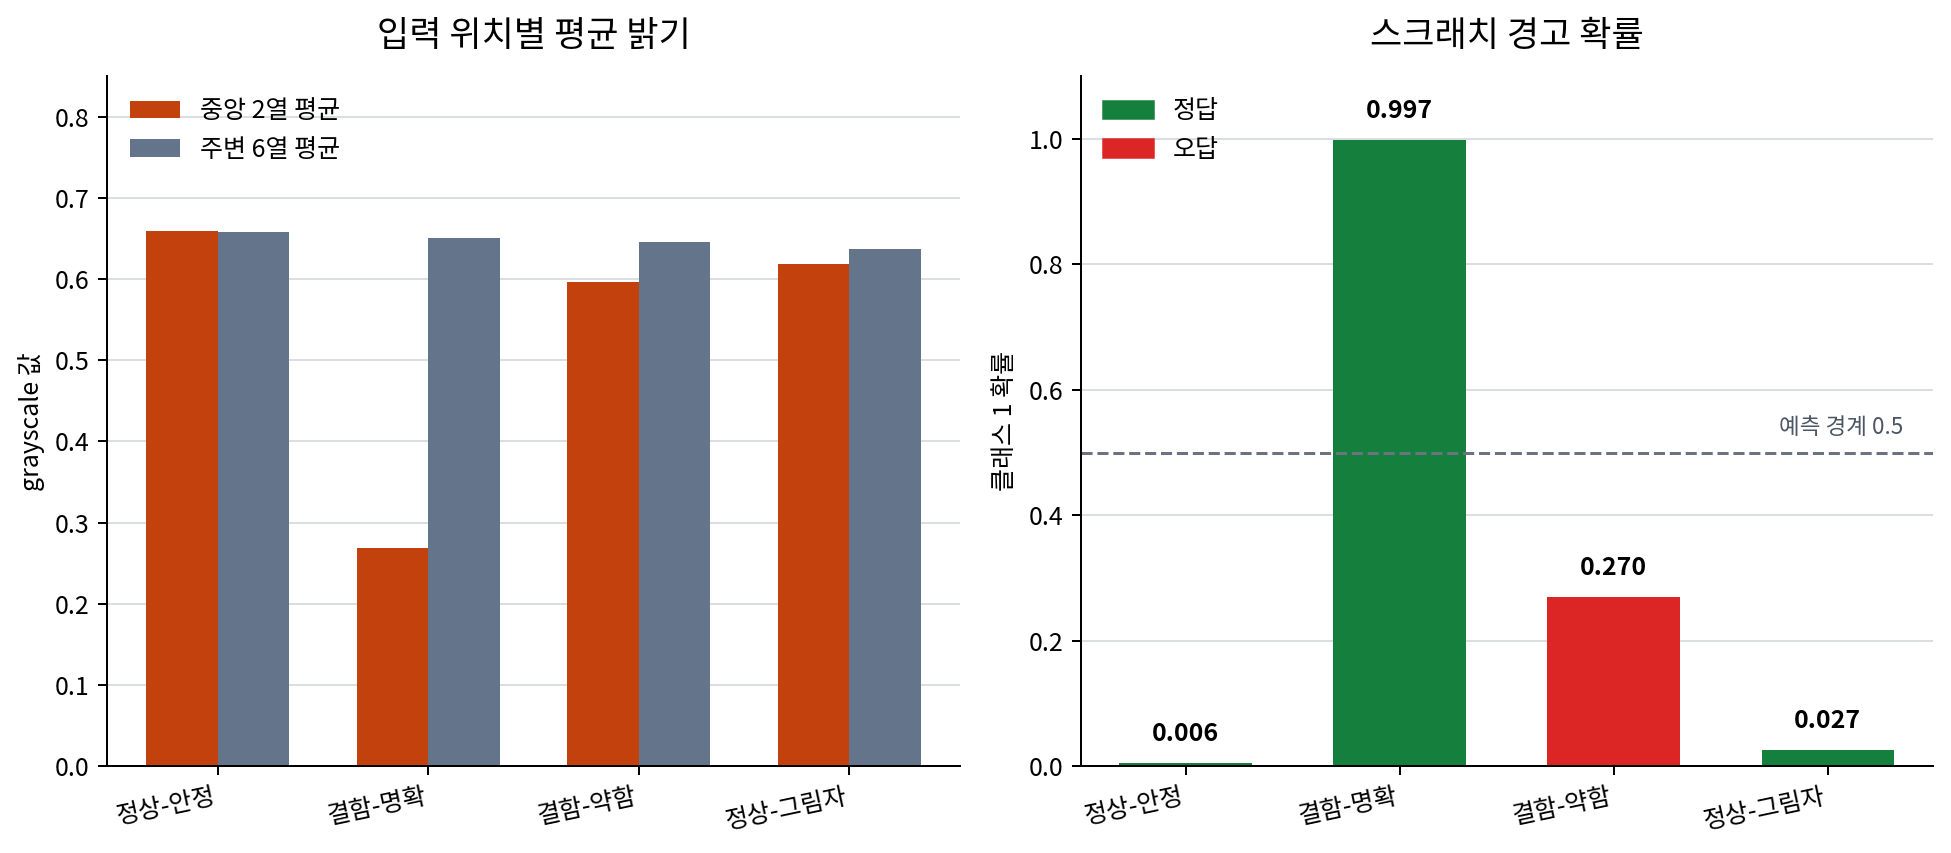
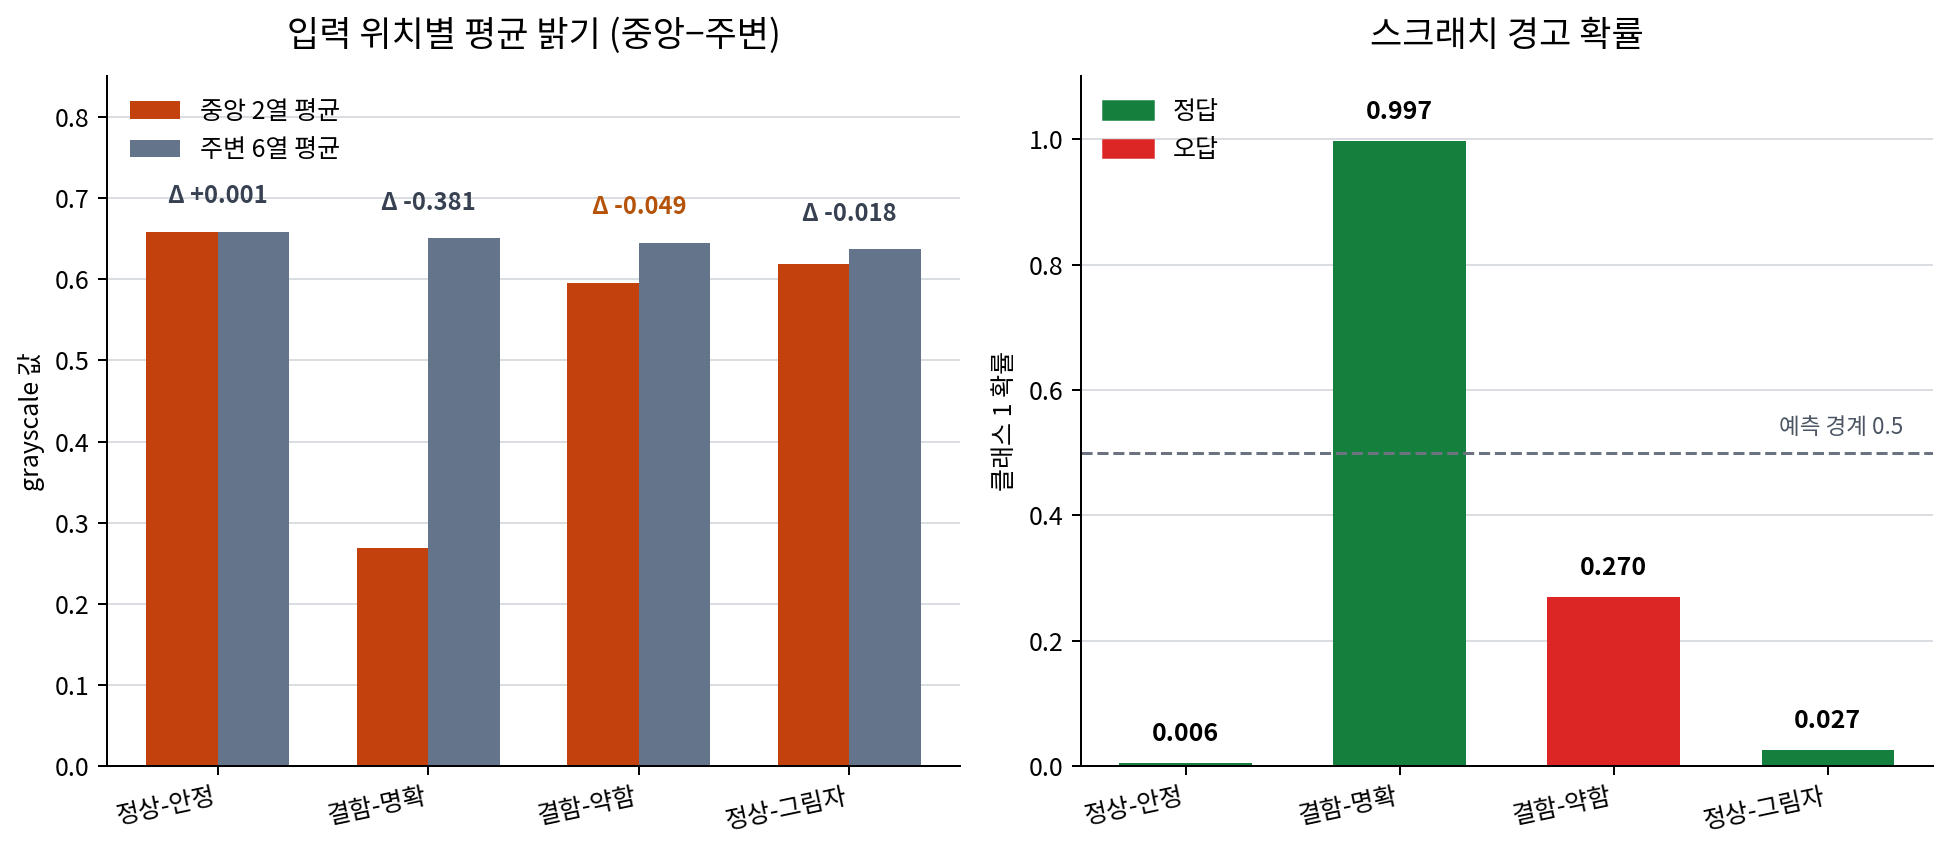
P7-3 차트와 입력 표현 해설 보강

diff --git a/docs/assets/part-07/chapter-03/p7_3_input_representation_report.py b/docs/assets/part-07/chapter-03/p7_3_input_representation_report.py
@@ -23,22 +23,21 @@ from sklearn.metrics import accuracy_score
 OUT_DIR = Path(__file__).resolve().parent
 DATA_PATH = OUT_DIR / "p7-3-surface-patches.csv"
 PNG_PATH = OUT_DIR / "p7-3-input-representation-report-ko.png"
+KOREAN_FONT_PATH = Path("/usr/share/fonts/opentype/noto/NotoSansCJK-Regular.ttc")
 
 
 def choose_font() -> str:
-    candidates = [
-        "Noto Sans CJK KR",
-        "NanumGothic",
-        "Apple SD Gothic Neo",
-        "AppleGothic",
-        "Arial Unicode MS",
-        "DejaVu Sans",
+    system_fonts = [Path(path) for path in font_manager.findSystemFonts()]
+    candidates = [KOREAN_FONT_PATH] + [
+        path
+        for path in system_fonts
+        if "NotoSansCJK" in path.name or "Nanum" in path.name
     ]
-    available = {font.name for font in font_manager.fontManager.ttflist}
     for candidate in candidates:
-        if candidate in available:
-            return candidate
-    return "DejaVu Sans"
+        if candidate.exists():
+            font_manager.fontManager.addfont(str(candidate))
+            return font_manager.FontProperties(fname=str(candidate)).get_name()
+    raise RuntimeError("한글 차트에는 Noto Sans CJK 또는 Nanum 계열 폰트가 필요합니다.")
 
 
 def configure_font() -> None:
@@ -125,19 +124,17 @@ def draw_report() -> None:
     left, right = axes
 
     x_positions = np.arange(len(names))
-    width = 0.24
-    accuracy = [float(result["accuracy"]) for result in results]
+    width = 0.32
     errors = [int(result["error_count"]) for result in results]
     low_margin = [int(result["low_margin_count"]) for result in results]
 
     style_axis(left)
-    left.bar(x_positions - width, accuracy, width, label="정확도", color="#2563eb")
-    left.bar(x_positions, errors, width, label="오류 수", color="#dc2626")
-    left.bar(x_positions + width, low_margin, width, label="낮은 확신 수", color="#0f766e")
+    left.bar(x_positions - width / 2, errors, width, label="오류 수", color="#dc2626")
+    left.bar(x_positions + width / 2, low_margin, width, label="낮은 확신 수", color="#0f766e")
     left.set_xticks(x_positions, names)
     left.set_ylim(0, 4.6)
-    left.set_ylabel("값")
-    left.set_title("같은 정확도, 다른 검토 신호")
+    left.set_ylabel("평가 샘플 수")
+    left.set_title("오류와 낮은 확신 샘플 수")
     left.legend(frameon=False, fontsize=8.5, loc="upper left")
 
     style_axis(right)
@@ -159,8 +156,12 @@ def draw_report() -> None:
     right.set_title("평가 샘플별 margin")
     right.legend(frameon=False, fontsize=8.3, loc="upper right")
 
-    fig.suptitle("입력 표현별 이미지 분류 리포트", fontsize=15, fontweight="bold")
-    fig.tight_layout(pad=1.0)
+    fig.suptitle(
+        "입력 표현별 이미지 분류 리포트\n세 표현의 평가 정확도는 모두 0.75",
+        fontsize=15,
+        fontweight="bold",
+    )
+    fig.tight_layout(pad=1.0, rect=(0, 0, 1, 0.91))
     fig.savefig(PNG_PATH, bbox_inches="tight")
     plt.close(fig)
 

diff --git a/docs/assets/part-07/chapter-03/p7_3_1_patch_signal_chart.py b/docs/assets/part-07/chapter-03/p7_3_1_patch_signal_chart.py
@@ -87,6 +87,7 @@ def collect_results() -> list[dict[str, object]]:
                 "sample": row["sample"].replace("평가-", ""),
                 "center_band": center_band,
                 "outside_band": outside_band,
+                "signal_gap": center_band - outside_band,
                 "scratch_probability": float(probability[1]),
                 "result": "정답" if prediction == row["label"] else "오답",
             }
@@ -115,7 +116,17 @@ def main() -> None:
     outside = [result["outside_band"] for result in results]
     signal_ax.bar(positions - width / 2, center, width, label="중앙 2열 평균", color="#c2410c")
     signal_ax.bar(positions + width / 2, outside, width, label="주변 6열 평균", color="#64748b")
-    signal_ax.set_title("입력 위치별 평균 밝기", fontsize=14, pad=12)
+    for position, center_value, outside_value, result in zip(positions, center, outside, results):
+        signal_ax.text(
+            position,
+            max(center_value, outside_value) + 0.035,
+            f"Δ {result['signal_gap']:+.3f}",
+            ha="center",
+            fontsize=9.5,
+            weight="bold",
+            color="#b45309" if result["result"] == "오답" else "#374151",
+        )
+    signal_ax.set_title("입력 위치별 평균 밝기 (중앙−주변)", fontsize=14, pad=12)
     signal_ax.set_ylabel("grayscale 값")
     signal_ax.set_ylim(0, 0.85)
     signal_ax.set_xticks(positions, labels, rotation=12, ha="right")

diff --git a/docs/parts/part-07/chapter-03/section-03.md b/docs/parts/part-07/chapter-03/section-03.md
@@ -1,7 +1,7 @@
 # P7-3.3 실제 분류기로 입력 표현을 다시 비교하기
 
 > Section ID: `P7-3.3`
-> Version: `v2026.07.31`
+> Version: `v2026.08.01`
 
 실제 분류기 비교는 `feature_view`, `classifier`, `train_setting`, `prediction_change`, `error_case`, `model_choice_note`를 남깁니다. 같은 데이터라도 입력 표현이 바뀌면 모델 선택의 의미도 함께 바뀐다는 점을 확인하기 위한 기록입니다.
 
@@ -161,9 +161,17 @@ for record in sample_records:
 
 ![입력 표현별 이미지 분류 리포트](../../../assets/part-07/chapter-03/p7-3-input-representation-report-ko.png)
 
-왼쪽 그래프는 정확도, 오류 수, 낮은 확신 샘플 수를 한 번에 보여 줍니다. 정확도는 같지만 낮은 확신 샘플 수가 표현마다 달라지는 점을 보고서 첫 장에서 바로 확인할 수 있습니다. 오른쪽 그래프는 평가 샘플별 확신 차이(margin)를 보여 줍니다. 이처럼 그림을 함께 남기면 다음 회의나 회고에서 `정확도는 같은데 왜 다시 봐야 하는가`를 더 짧게 설명할 수 있습니다.
+차트 제목은 세 표현의 평가 정확도가 모두 `0.75`라는 공통 기준을 먼저 고정합니다. 왼쪽 그래프는 그 기준과 다른 축인 오류 수와 낮은 확신 샘플 수만 보여 줍니다. 따라서 `0.75`와 샘플 수를 같은 막대 높이로 오해하지 않고, 정확도는 같아도 추가 검토 범위는 달라진다는 점을 읽을 수 있습니다. 오른쪽 그래프는 평가 샘플별 확신 차이(margin)를 보여 줍니다. 이처럼 그림을 함께 남기면 다음 회의나 회고에서 `정확도는 같은데 왜 다시 봐야 하는가`를 더 짧게 설명할 수 있습니다.
 
 세 표현은 모두 평가 정확도 `0.75`로 끝납니다. 하지만 같은 결과라고 읽으면 안 됩니다. 64개 픽셀을 그대로 쓴 표현에서는 낮은 확신 샘플이 `평가-결함-약함` 하나로 좁혀집니다. 반면 열 평균이나 중심 band로 줄이면 모든 평가 샘플의 확신 차이가 낮아집니다. 즉, 축약 표현은 같은 오답을 만들 뿐 아니라 정답 샘플도 더 불안하게 만듭니다.
+
+같은 정확도에서 무엇이 달라졌는지는 다음 표로 다시 확인할 수 있습니다. `낮은 확신`은 이 예제에서 margin이 `0.25`보다 작은 샘플을 뜻합니다. 따라서 오류 수와 낮은 확신 수는 같은 항목이 아닙니다. 정답이어도 다음 검토 대상으로 남을 수 있습니다.
+
+| 입력 표현 | 평가 입력 shape | 공통 정확도 | 오류 수 / 낮은 확신 수 | 학습자가 남길 판단 |
+| --- | ---: | ---: | ---: | --- |
+| 64개 픽셀 그대로 | `(4, 64)` | `0.75` | `1 / 1` | 약한 결함 한 건을 우선 검토한다. |
+| 열 평균 8개 | `(4, 8)` | `0.75` | `1 / 4` | 행별 위치를 줄인 뒤 모든 평가 샘플의 판단 여유가 낮아졌는지 확인한다. |
+| 중심 band 3개 | `(4, 3)` | `0.75` | `1 / 4` | 중심 영역 가설만으로는 최종 판단이 부족한지 확인한다. |
 
 이 차이는 프로젝트 회고에서 중요합니다. 정확도만 보면 세 표현이 같은 후보처럼 보이지만, 다음 반복에서는 다르게 적어야 합니다.
 
@@ -184,12 +192,16 @@ for record in sample_records:
 3. `representations`에서 `열 평균 8개`를 빼고 실행해 봅니다.
    - 관찰할 점: 비교 표현이 줄어들면 회고 문장이 얼마나 덜 구체적이 되는가?
 
+4. 세 표현의 정확도가 모두 `0.75`인 상태에서, `오류 수`와 `낮은 확신 수`를 각각 한 문장으로 적어 봅니다.
+   - 관찰할 점: 같은 정확도라는 사실만으로는 어떤 표현을 다음 실험의 기준으로 삼을지 결정할 수 없는 이유는 무엇인가?
+
 핵심은 실제 분류기를 붙인 뒤에도 `정확도 하나`로 끝내지 않는 것입니다. 프로젝트 기록에는 어떤 입력 표현을 만들었고, 그 표현이 어떤 샘플을 불안하게 만들었는지까지 남겨야 합니다.
 
 ## 체크리스트
 
 - [ ] 이미지 패치를 실제 분류기 입력으로 바꾸는 과정에서 `shape`를 확인했는가?
 - [ ] 입력 표현을 바꿨을 때 정확도 외에 확신 차이와 오류 샘플을 함께 보았는가?
+- [ ] 오류 수와 낮은 확신 수가 서로 다른 검토 신호임을 설명할 수 있는가?
 - [ ] 같은 정확도라도 회고 문장이 달라질 수 있음을 설명할 수 있는가?
 - [ ] 표현 축소가 공간 정보를 잃을 수 있다는 점을 다음 실험 질문으로 남겼는가?
 

diff --git a/management/release-notes/sections/part-07/P7-3.3.md b/management/release-notes/sections/part-07/P7-3.3.md
@@ -3,6 +3,14 @@
 - Section ID: `P7-3.3`
 - Source File: `docs/parts/part-07/chapter-03/section-03.md`
 
+### v2026.08.01
+- 변경 이유: P7-3.3 본문에서 표시하는 입력 표현 비교 PNG가 일부 환경에서 한글 글꼴을 찾지 못해 라벨이 깨지는 문제를 바로잡았다.
+- 본문 반영: 공용 차트 자산의 Version 기준을 갱신했다. 차트 스크립트는 Noto Sans CJK 또는 Nanum 글꼴을 직접 등록하고, 글꼴이 없으면 생성 중단하도록 바꿨다. 평가 정확도 `0.75`는 제목의 공통 기준으로 분리하고, 차트는 오류 수·낮은 확신 수·샘플별 margin만 보여 주도록 축을 정리했다. 본문에는 표현별 입력 shape, 오류 수, 낮은 확신 수, 다음 판단을 비교하는 표와 학습 점검을 추가했다.
+- 번역 동기화 메모: 향후 번역 차트도 해당 언어를 표시할 수 있는 글꼴을 명시적으로 등록하고, 라벨이 깨지면 PNG를 생성하지 않도록 유지한다. 정확도 공통 기준과 오류·낮은 확신 신호의 구분, 비교표와 네 번째 점검 문항도 함께 반영한다.
+- 번역 반영 상태: 한국어 원문만 반영됨.
+- 관련 자산: `docs/assets/part-07/chapter-03/p7_3_input_representation_report.py`, `docs/assets/part-07/chapter-03/p7-3-input-representation-report-ko.png`
+- 원문 기준 버전: `v2026.08.01`
+
 ### v2026.07.31
 - 변경 이유: Part 7 Section 메타데이터가 현재 가이드의 blockquote 형식과 어긋나 있어 규칙 준수 정리를 진행했다.
 - 본문 반영: 제목 아래 `Section ID`, `Version` 두 줄을 blockquote 형식으로 정리하고, 본문 `Version`을 `v2026.07.31`로 갱신했다. 원고 학습 흐름과 실습 내용은 변경하지 않았다.

diff --git a/management/release-notes/sections/part-07/P7-3.1.md b/management/release-notes/sections/part-07/P7-3.1.md
@@ -5,8 +5,8 @@
 
 ### v2026.08.01
 - 변경 이유: P7-3.1의 약한 결함 오분류를 정확도 한 줄이 아니라 입력 위치 신호와 예측 확률의 관계로 해석하게 보강했다.
-- 본문 반영: 평가 패치별 중앙 두 열·주변 여섯 열 평균 밝기와 스크래치 경고 확률을 함께 보여 주는 2패널 차트를 추가했다. 명확한 결함과 약한 결함의 확률 차이를 해설하고, 입력·예측·다음 질문의 세 단계 학습 점검을 추가했다.
-- 번역 동기화 메모: 향후 번역본은 중앙 띠와 주변 띠 비교, 명확한 결함 `0.997`, 약한 결함 `0.270`의 확률 차이, 입력·예측·다음 질문 점검을 함께 반영한다.
+- 본문 반영: 평가 패치별 중앙 두 열·주변 여섯 열 평균 밝기와 스크래치 경고 확률을 함께 보여 주는 2패널 차트를 추가했다. 차트에 중앙−주변 밝기 차이(Δ)를 직접 표시하고, 네 평가 패치를 입력 신호·예측 기록·다음 검토 질문으로 연결하는 표를 더했다. 명확한 결함과 약한 결함의 확률 차이를 해설하고, 근거 수치를 써 보는 입력·예측·다음 질문의 세 단계 학습 점검을 추가했다.
+- 번역 동기화 메모: 향후 번역본은 중앙 띠와 주변 띠 비교, 중앙−주변 Δ, 명확한 결함 `0.997`, 약한 결함 `0.270`의 확률 차이, 입력·예측·다음 질문 점검을 함께 반영한다.
 - 번역 반영 상태: 한국어 원문만 반영됨.
 - 관련 자산: `docs/assets/part-07/chapter-03/p7-3-surface-patches.csv`, `docs/assets/part-07/chapter-03/p7_3_1_patch_signal_chart.py`, `docs/assets/part-07/chapter-03/p7-3-1-patch-signal-chart-ko.png`
 - 원문 기준 버전: `v2026.08.01`
